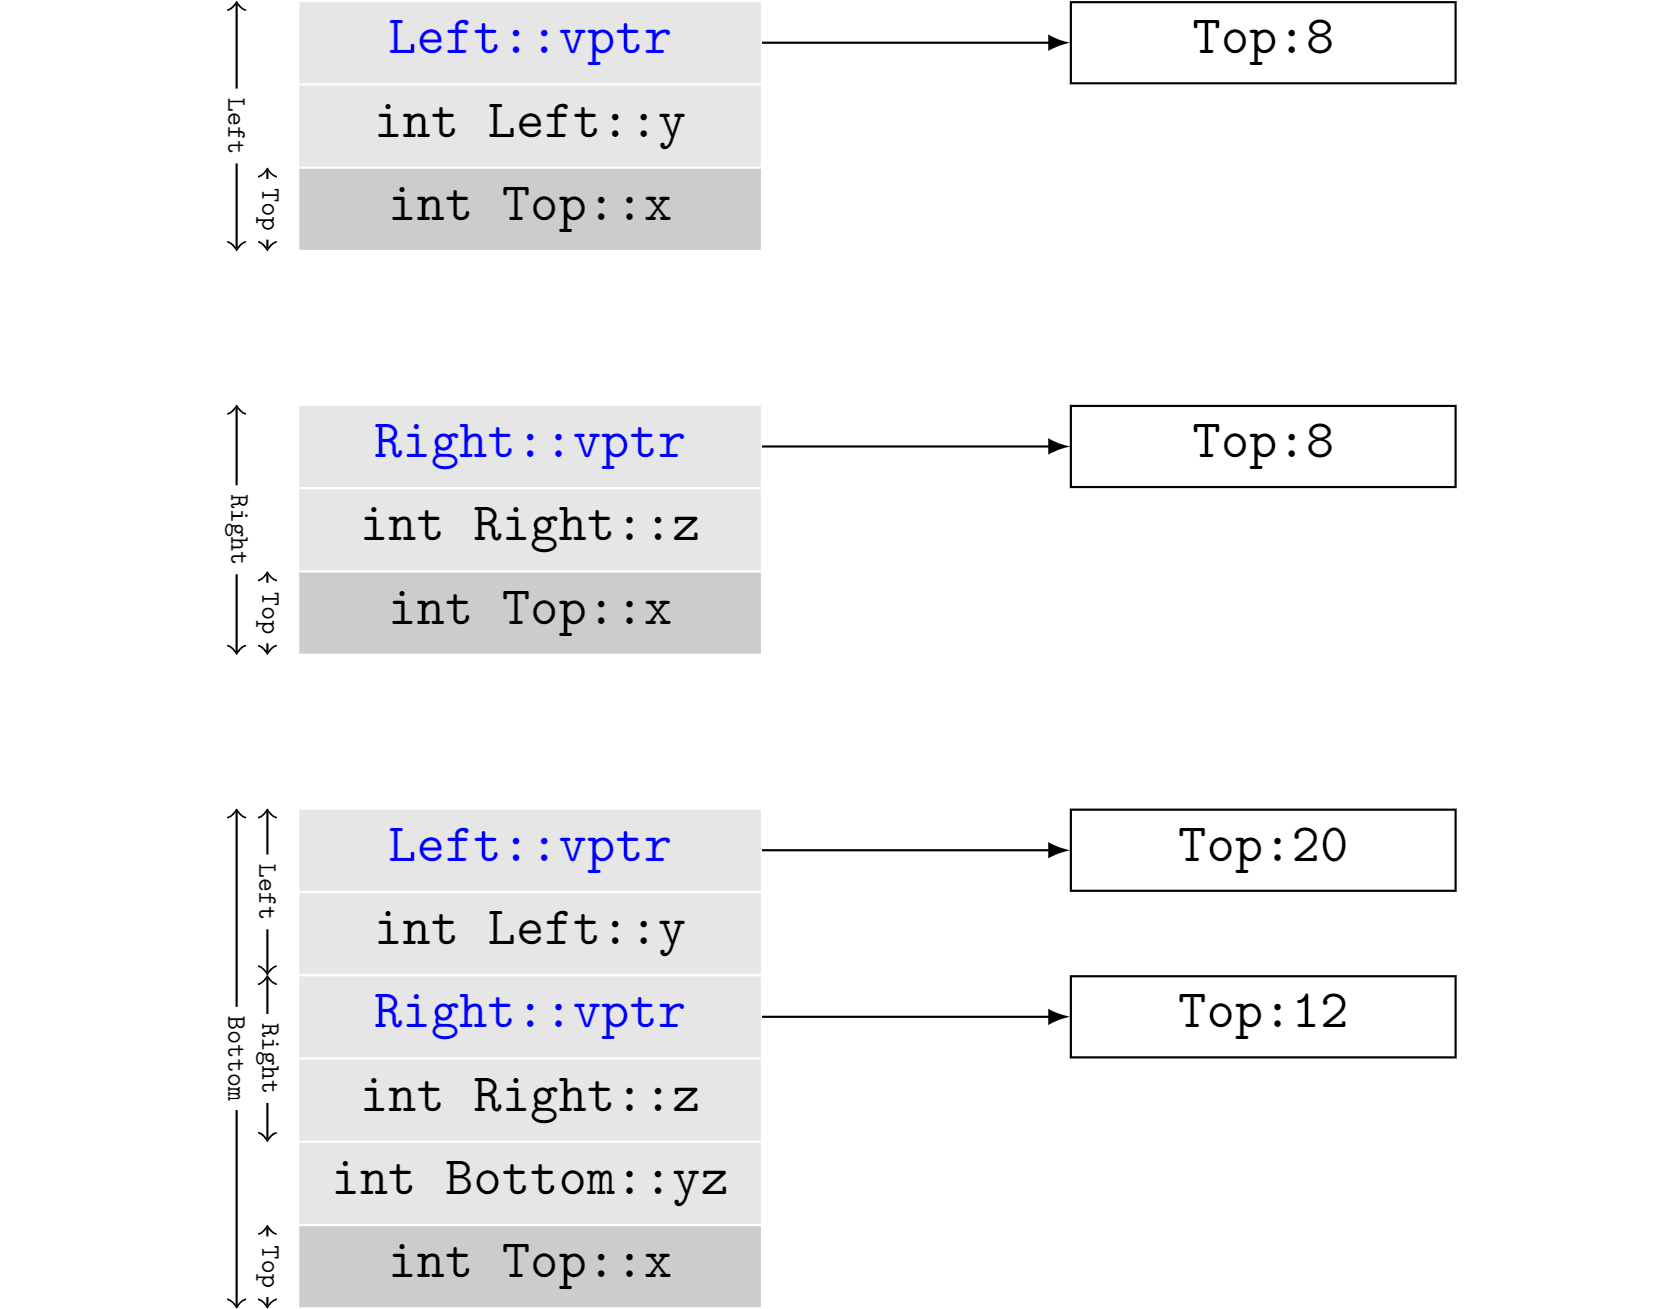
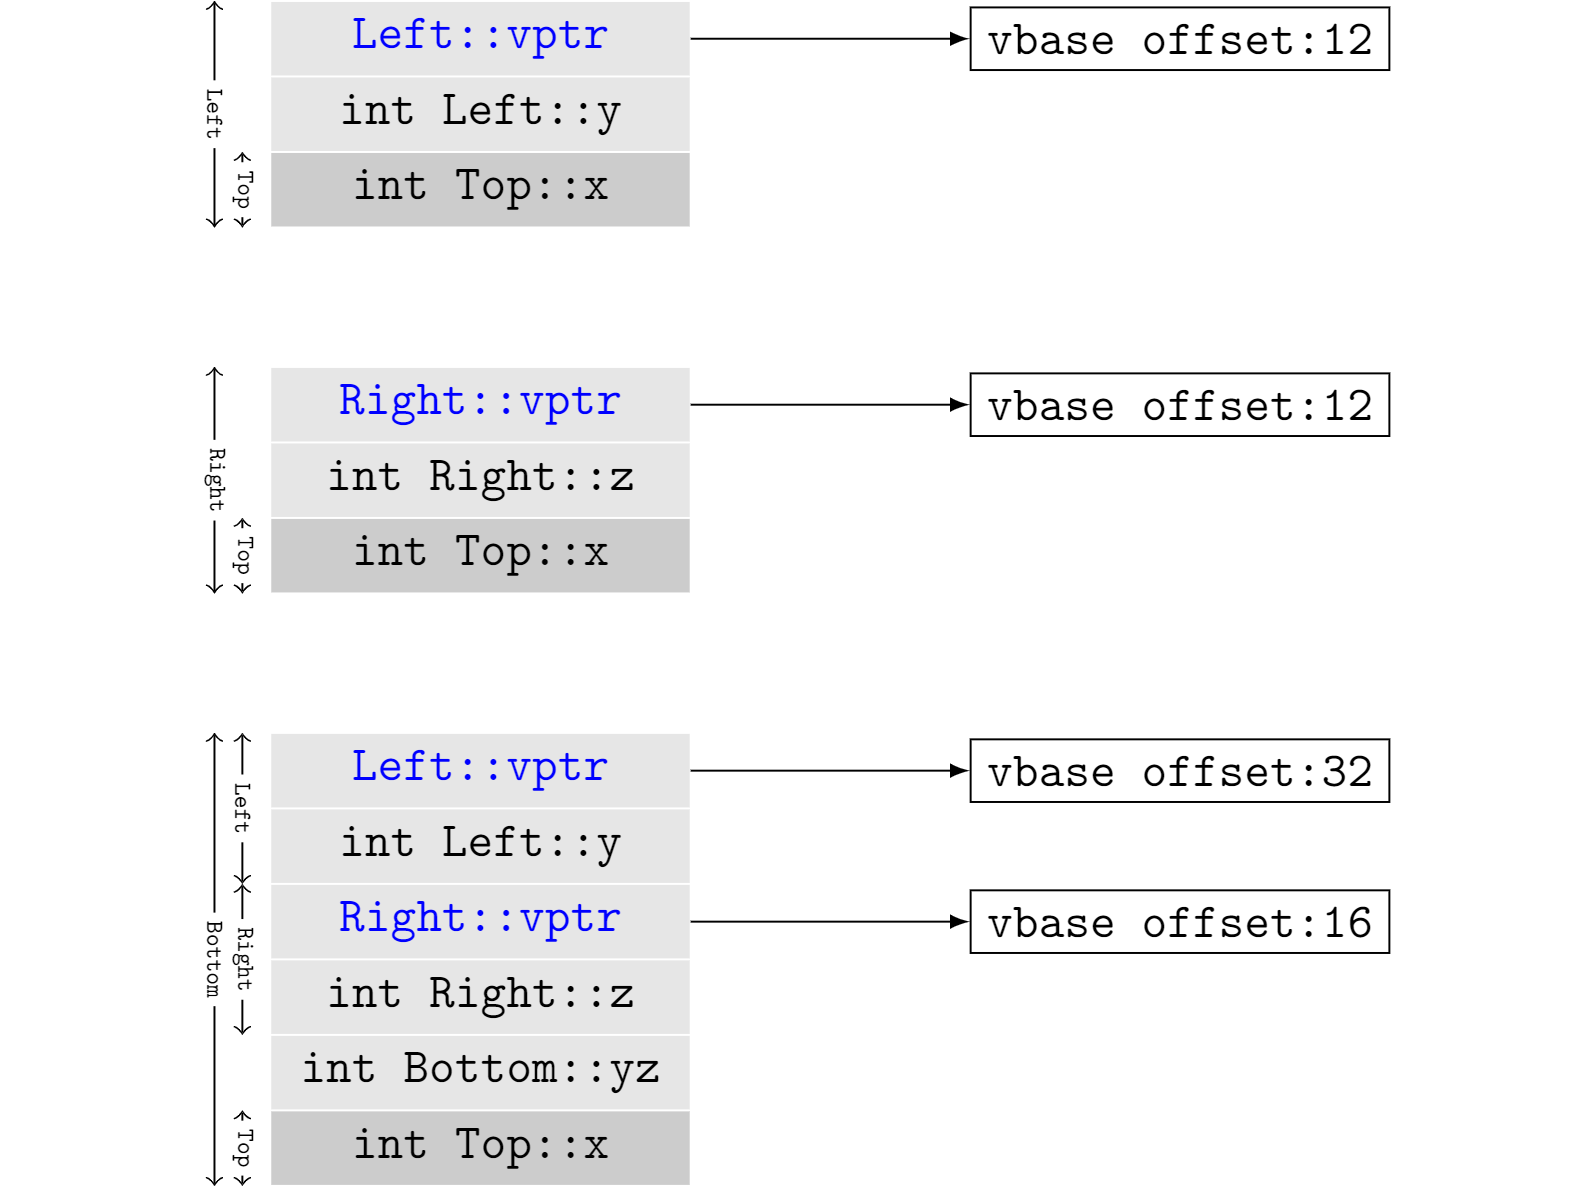
improve models

diff --git a/internals/polymorphism.md b/internals/polymorphism.md
@@ -2,7 +2,9 @@
 
 ## 单一继承的对象布局
 
-当类中定义了虚函数或者继承了定义虚函数的基类时，类的对象布局中会产生一个虚函数指针，指向该类型的虚函数表(Virutal Functions Table)。有的编译器将虚函数表放在对象头部，有的放在尾部。放在头部的好处是，无需任何偏移就可以访问虚函数表，对象的起始位置在偏移一个指针的位置，计算起来都比较方便。放在尾部的好处是，对象指针指向的的内存地址就是对象的起始位置，保持了和C语言的兼容性。为了维持着这一原则，没有虚函数的C++ struct是没有虚函数表的。
+当类中定义了虚函数或者继承了定义虚函数的基类时，类的对象布局中会产生一个虚函数指针，指向该类型的虚表(Virutal Table)。
+
+有的编译器将虚表放在对象头部，有的放在尾部。放在头部的好处是，无需任何偏移就可以访问虚表，对象的起始位置在偏移一个指针的位置，计算起来都比较方便。放在尾部的好处是，对象指针指向的的内存地址就是对象的起始位置，保持了和C语言的兼容性。为了维持着这一原则，没有虚函数的C++ struct是没有虚表的。
 
 ## 多继承的对象布局
 
@@ -13,7 +15,7 @@ public:
     virtual void print();
 private:
     int y;
-}
+};
 
 class Right
 {
@@ -32,31 +34,61 @@ private:
 };
 ```
 
-![Polymorphism and Memory Layout](polymorphism.png)
+clang打印出的类内存布局信息如下：
 
-在把派生类指针赋给基类指针时，编译器会安插代码进行偏移量调整，使基类指针指向正确的基类子对象起始位置。例如，当基类指针`Left* left`被派生类指针`new Bottom()`初始化时，`left`指针无需被调整(偏移量为0)，而`right`被初始化时，会被加上一个8字节的偏移量。
+```bash
+$ clang -cc1 -fdump-record-layouts obj_model_poly.cpp
 
-根据虚函数表调用虚函数`print()`时，调用的是`Bottom`类型的函数，此时要进行一次this指针调整，调整的值就是虚函数表中的`Top Offset`。如果是通过`left`指针调用的，不需要调整，如果是`right`，则要将`this`减去8字节使得`this`指针指向`Bottom`对象的起始位置。
+*** Dumping AST Record Layout
+         0 | class Left
+         0 |   (Left vtable pointer)       
+         8 |   int y
+           | [sizeof=16, dsize=12, align=8,
+           |  nvsize=12, nvalign=8]        
 
-```cpp
-Left* left = new Bottom(); // left += 0
-left->print();  // this += 0
+*** Dumping AST Record Layout
+         0 | class Right
+         0 |   (Right vtable pointer)      
+         8 |   int z
+           | [sizeof=16, dsize=12, align=8,
+           |  nvsize=12, nvalign=8]
 
-Right* right = new Bottom();  // right += 8
-right->print();  // this -= 8
+*** Dumping AST Record Layout
+         0 | class Bottom
+         0 |   class Left (primary base)
+         0 |     (Left vtable pointer)
+         8 |     int y
+        16 |   class Right (base)
+        16 |     (Right vtable pointer)
+        24 |     int z
+        28 |   int yz
+           | [sizeof=32, dsize=32, align=8,
+           |  nvsize=32, nvalign=8]
 ```
 
-C++编译器对虚函数的实现多有不同，了解现实中MSVC编译器的实现，可以参考[Reversing Microsoft Visual C++ Part II: Classes, Methods and RTTI](http://www.openrce.org/articles/full_view/23)。
+![Polymorphism and Memory Layout](polymorphism.png)
+
+在把派生类指针赋给基类指针时，编译器会安插代码进行偏移量调整，使基类指针指向正确的基类子对象起始位置，这一步是在编译时发生的。例如，当基类指针`Left* left`被派生类指针`new Bottom()`赋值时，`left`指针无需被调整(偏移量为0)，而`right=new Bottom()`被初始化时，会被加上一个16字节的偏移量。
+
+根据虚表调用虚函数`print()`时，调用的是`Bottom`类的接口函数，需要把this指针调整到Bottom类的起始位置，调整的值就是虚表中的`Top Offset`，这一步是在运行时发生的。如果是通过`left`指针调用的，不需要调整，如果是`right`，则要将`right`减去16字节得到`Bottom`对象的起始位置。
+
+```cpp
+Left* left = new Bottom(); // left += 0 (at compilation)
+left->print();  // this += 0 (at runtime)
+
+Right* right = new Bottom();  // right += 16 (at compilation)
+right->print();  // this -= 16 (at runtime)
+```
+
+不同编译器对虚函数的实现可能有所不同，了解现实中MSVC编译器的实现，可以参考[Reversing Microsoft Visual C++ Part II: Classes, Methods and RTTI](http://www.openrce.org/articles/full_view/23)。
 
 ## 练习
 
-**1.** 虚函数表和虚基类表可以共享吗？
+**1.** 虚继承和虚函数都会导致Virtual Table的产生，为什么它们需要的信息可以复用同一张Virtual Table来存储？
 
-对象的虚函数表和虚基类表（如果有虚继承）可以放在一起，取决于编译器的实现。
+**2.** 多继承时，类实例中的所有Subobjects可以共享一个虚表吗？
 
-**2.** 多继承时，类实例中的所有subobject可以共享一个虚函数表吗？
-
-**3.** 同一个类的所有实例可以共享同一个虚函数表吗？多继承时呢？
+**3.** 同一个类的所有实例可以共享同一个虚表吗？多继承时呢？
 
 **4.** 析构函数为什么需要申明为virtual？
 

diff --git a/internals/encapsulation.md b/internals/encapsulation.md
@@ -29,11 +29,11 @@ private:
 
 通常情况下，了解以上类的对外语法特性之后就可以使用C++进行面向对象开发了。但是了解类向下，也就是会被编译器怎样实现对进一步理解C++也很重要。
 
-C++标准对数据布局的要求是同一个access level的members，排列需要满足“较晚出现的member拥有较高的地址”。也就是说，members不是非得连续排列，甚至不同access level的数据也可以交叉排列。而成员函数在对象的内存布局中并不存在，它们只存在于代码段中。
+C++标准对数据布局的要求是同一个access level的members，排列需要满足“较晚出现的member拥有较高的地址”。也就是说，members不是非得连续排列，甚至不同access level的数据也可以交叉排列。
 
 ![Class Point and Memory Layout](class.png)
 
-到达汇编语言之后，类这一概念也是不存在的。实际上，类的成员函数和普通函数没有任何区别，编译器会通过安插this指针、重命名等操作，将它们转化为普通函数，从而去掉类这个概念，类似下面这样：
+成员函数在对象的内存布局中并不存在，它们只存在于代码段中。实际上，类的成员函数和普通函数没有任何区别，编译器会通过安插this指针、重命名等操作，将它们转化为普通函数，从而去掉类这个概念，类似下面这样：
 
 ```cpp
 // no class Point anymore!
